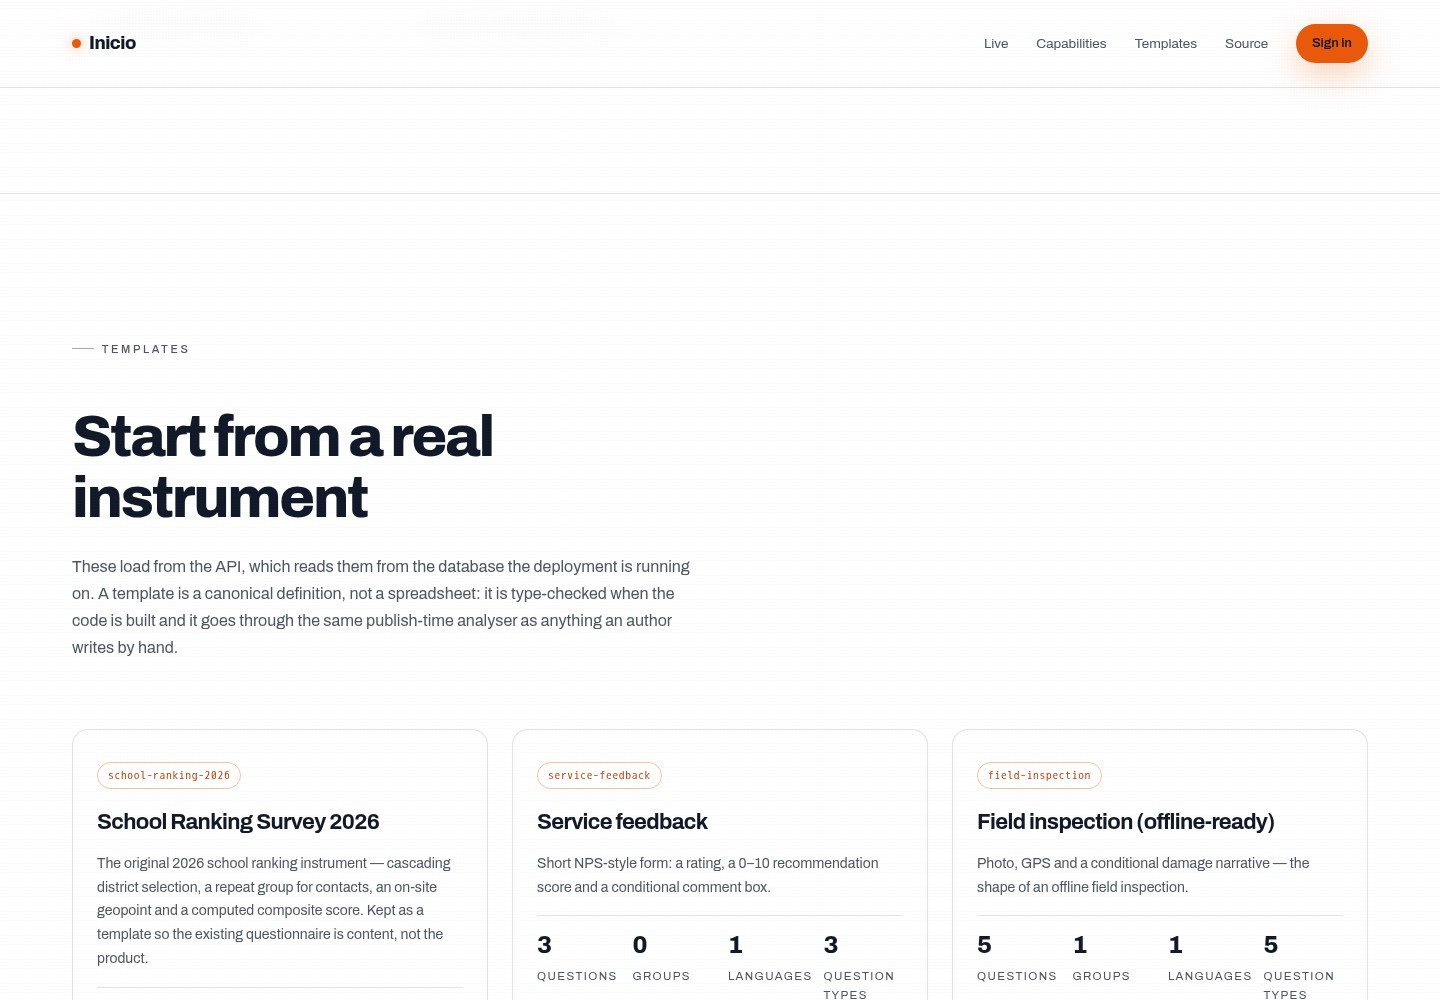
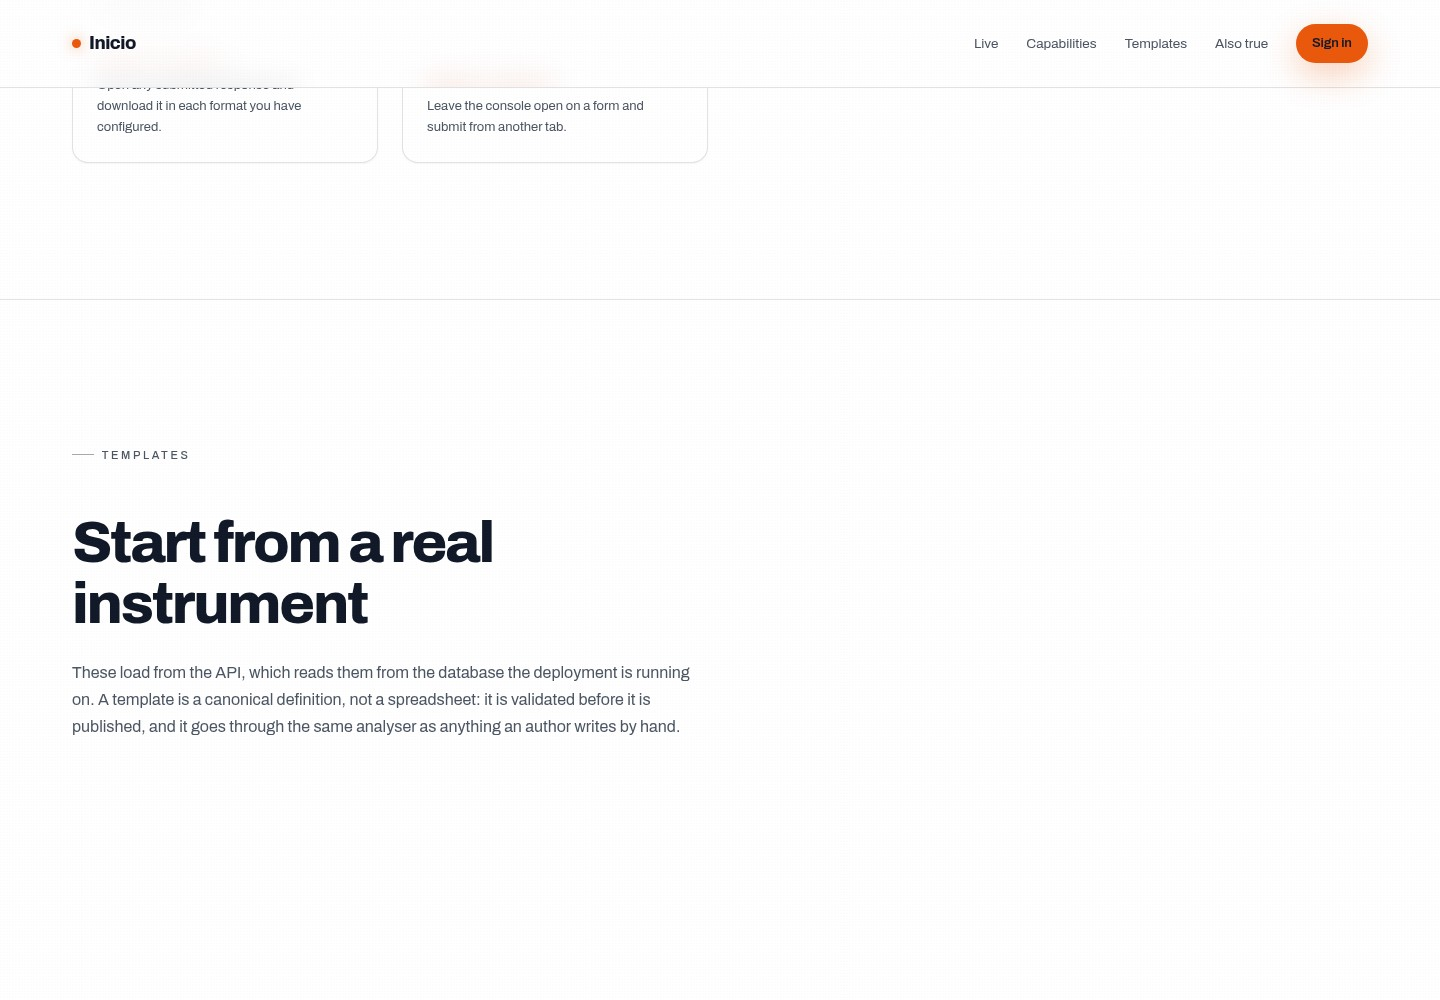
Refresh the captures from the deployment the palette shipped to
The README calls its first two tables photographs of the running product, and the
front door in them was the one this palette replaced: a white sheet with a blue
button, next to a paragraph describing a dark one. Trivial to leave, and exactly the
kind of stale artefact a document full of measured numbers should not carry.

Taken by scripts/screenshots.mjs against https://inicio.unifies.codes — the same five
assertions as before, all passing, including that the call to action reaches /login
on a phone and that nothing 4xx'd except the signed-out 401 — and the capture report
records the URL and the time. The images can be checked rather than trusted: the
desktop sign-in capture now holds 361,691 warm pixels against 906 cool ones, and the
landing page's three carry no cool pixels at all.

DECISIONS.md D34 records the refresh, since it had said in writing that these two
images were stale until this ran.

🤖 Generated with Codebuff

diff --git a/DECISIONS.md b/DECISIONS.md
@@ -1111,6 +1111,12 @@ rather than reading it: `test/offline/store.ts` passed a key to a store declared
 **Honest limits.** The palette is measured to the 4.5:1 floor for text and 3:1 for boundaries, and the two
 stylesheets are held to each other's values; what is *not* measured is whether the surfaces look good, which
 is a judgement and not a test. Repository documents (this file, `README.md`, `CHANGELOG.md`, `specs/`) still
-carry their em dashes by D33's reasoning, which is unchanged by this work. And `login-desktop.jpg` and
-`login-mobile.jpg` in the README are photographs of the front door as it was before this change until
-`scripts/screenshots.mjs` is run against the deployment that carries it.
+carry their em dashes by D33's reasoning, which is unchanged by this work.
+
+**And the photographs were re-taken, because a stale one is the kind of claim this repository measures
+rather than makes.** The README calls its first two tables photographs of the running product, and the front
+door in them was the old one: `scripts/screenshots.mjs` was run against the deployment that carries this
+change (`https://inicio.unifies.codes`), all five of its assertions passed, and the report it writes records
+the URL and the time. The result is checkable in the images themselves: the desktop sign-in capture is warm
+grey with 361,691 warm pixels against 906 cool ones, where the previous version of that screen was blue, and
+the landing page's three captures carry no cool pixels at all.
